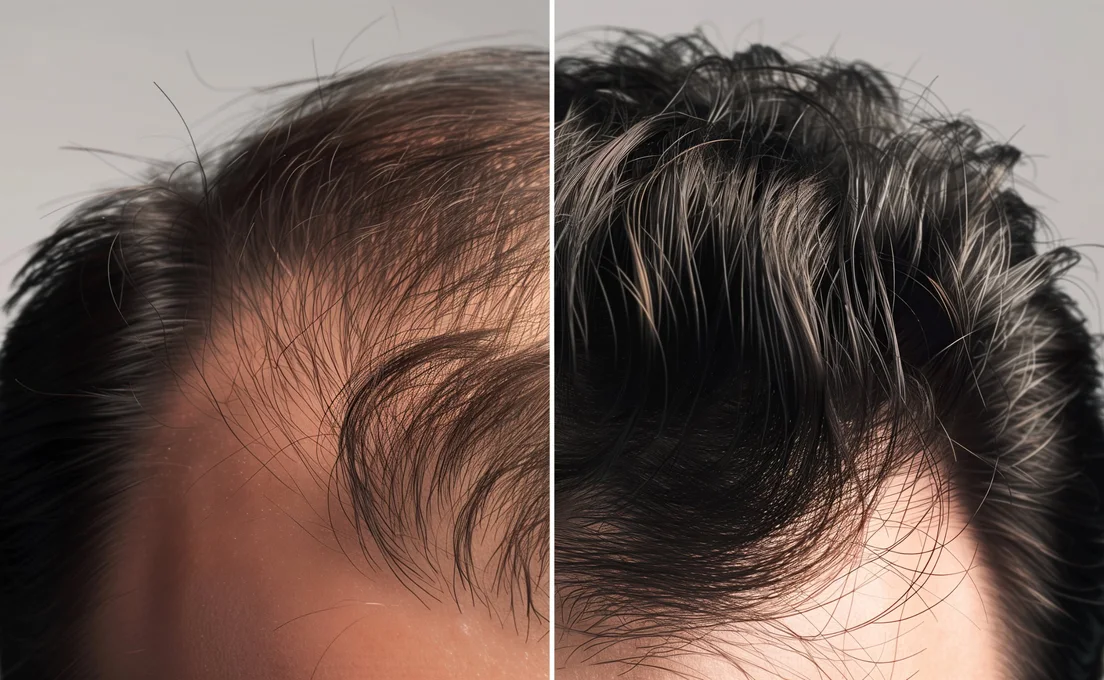
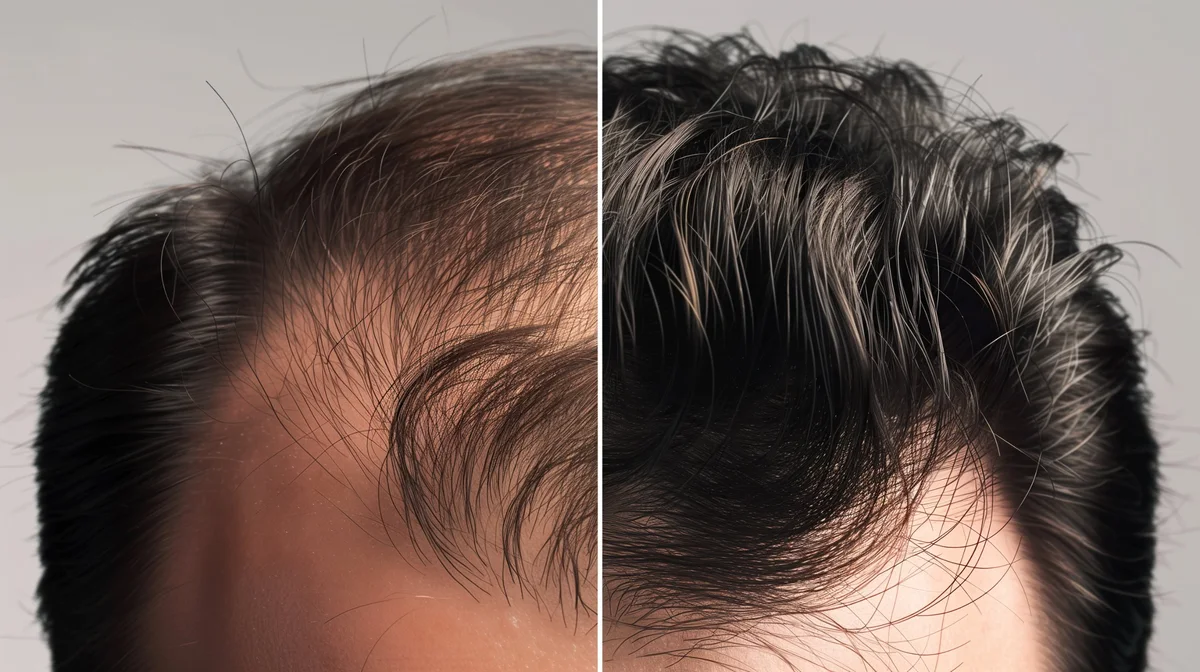
LP queda: antes e depois na primeira dobra do mobile
Claude-Session: https://claude.ai/code/session_01LxHa1wKRiGWACHbEmTVZrk

diff --git a/queda-de-cabelo.html b/queda-de-cabelo.html
@@ -35,6 +35,21 @@ html{scroll-behavior:smooth}
 </style>
 <link rel="stylesheet" href="marca.css">
 <link rel="stylesheet" href="movimento.css">
+<style>
+@media (max-width:600px){
+#topo>div{padding:12px 16px 32px!important;gap:14px!important}
+#topo>div>div:nth-child(2){order:-1;flex:1 1 100%!important}
+#topo>div>div:first-child{gap:12px!important}
+#topo>div>div:first-child>div:first-of-type{order:5}
+#topo h1{font-size:32px!important}
+#topo p{font-size:16px!important;line-height:1.45!important}
+#topo .visual{height:auto;aspect-ratio:auto;border-radius:12px}
+#topo .visual>.foto{position:relative;height:auto;flex:none;aspect-ratio:2576/1444}
+#topo .visual>.ph-hero,#topo .painel{display:none}
+#topo .chip--topo{top:8px;right:8px;padding:6px 10px 6px 8px;font-size:12px}
+#topo .chip img{width:16px;height:16px}
+}
+</style>
 </head>
 <body>
 <a class="pular" href="#conteudo">Pular para o conteúdo</a>
